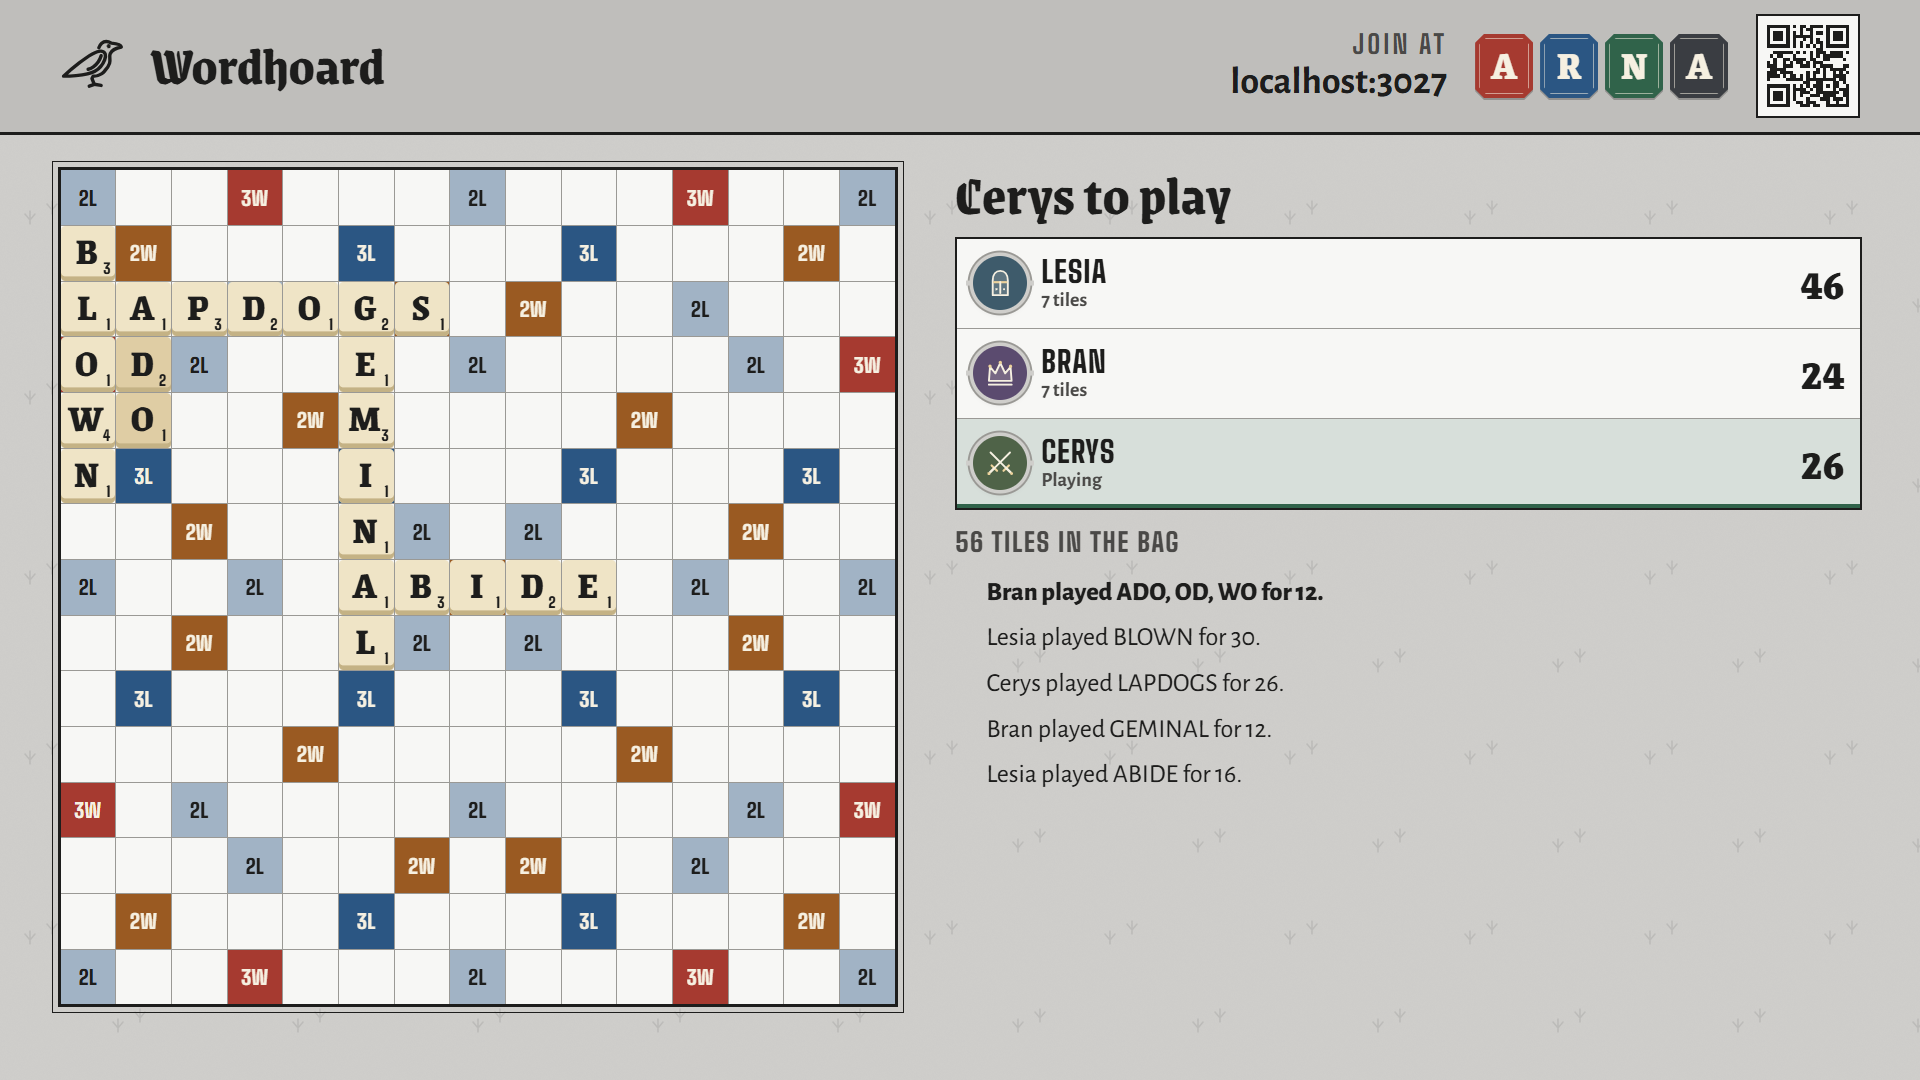
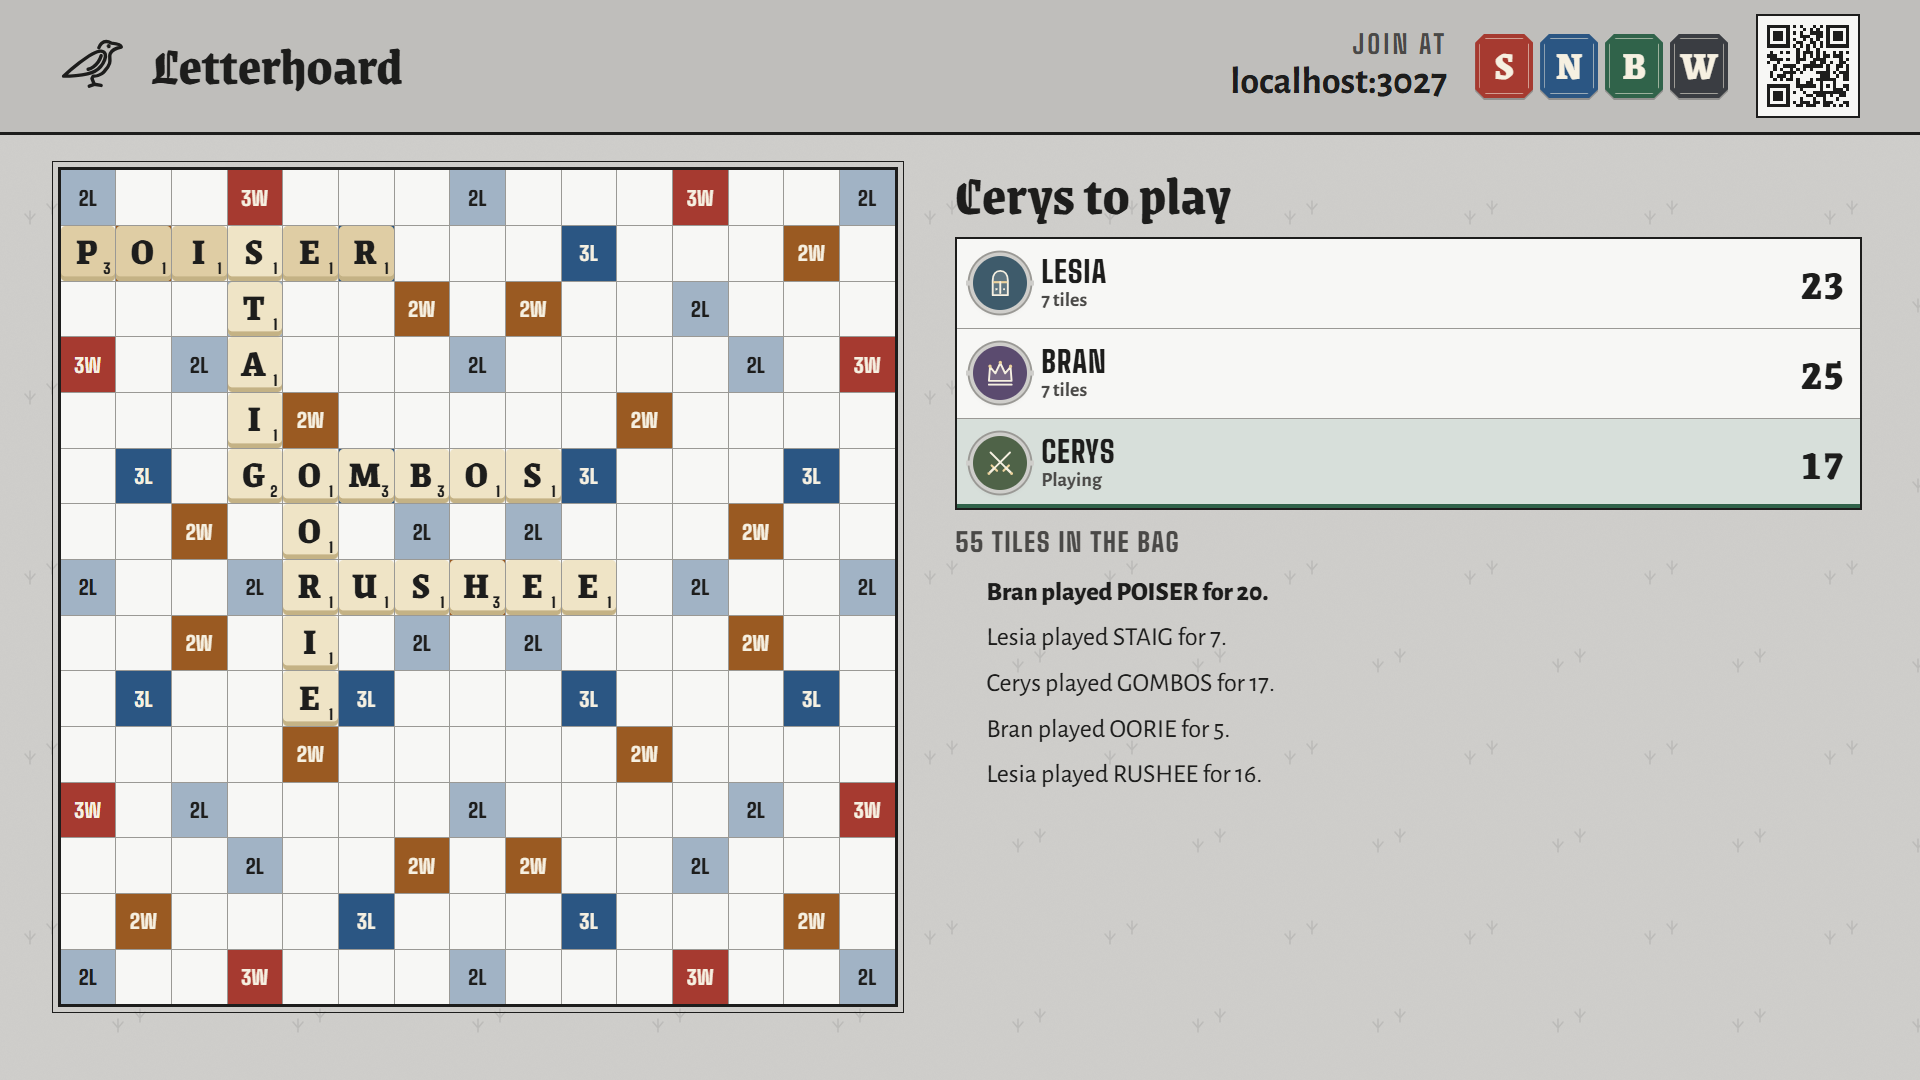
feat: rename Wordhoard to Letterhoard
The owner's pick. Only the name players see changes (meta, pictures, text, docs); the game id,
package and storage keys stay `wordhoard`, so saved lobbies and history keep working. New
catalog pictures with the new name and the screen that fits.

diff --git a/packages/ui/src/game-ui.ts b/packages/ui/src/game-ui.ts
@@ -56,7 +56,7 @@ export interface GameUi {
   /** Optional game-specific end-of-game reveal; the shell shows the recap timeline otherwise. */
   Reveal?: ComponentType<{ result: GameResult; players: ScreenPlayer[]; me: string | null }>;
   /**
-   * Optional: drawn on the TV's results in place of the recap, beside the standings (Wordhoard:
+   * Optional: drawn on the TV's results in place of the recap, beside the standings (Letterhoard:
    * the finished board). It fills a size container, so it can fit itself to the space.
    */
   TvReveal?: ComponentType<{ result: GameResult; players: ScreenPlayer[] }>;
@@ -96,7 +96,7 @@ export interface GameUi {
    */
   fullBleed?: boolean;
   /**
-   * The phone screen fits the height under Jackdaw's bar and never scrolls (Wordhoard: the whole
+   * The phone screen fits the height under Jackdaw's bar and never scrolls (Letterhoard: the whole
    * board, the rack and the buttons at once). The screen's root should fill its parent (`flex: 1`
    * in a flex column); it is a size container named `game` for container queries.
    */

diff --git a/packages/games/wordhoard/src/ui/index.tsx b/packages/games/wordhoard/src/ui/index.tsx
@@ -5,7 +5,7 @@ import { PlayerScreen } from './player';
 import { Reveal, TvReveal } from './reveal';
 import { TvScreen } from './tv';
 
-/** Wordhoard: catalog art, detail page and screens. It uses Jackdaw's own lobby. */
+/** Letterhoard: catalog art, detail page and screens. It uses Jackdaw's own lobby. */
 export const wordhoardUi: GameUi = {
   art: { band: 'azure', field: 'checky', glyph: 'tiles' },
   about: {
@@ -24,11 +24,11 @@ export const wordhoardUi: GameUi = {
     pictures: [
       {
         src: '/games/wordhoard/game-phone.png',
-        alt: 'Wordhoard on a phone: the scores, the board with the words so far, and your rack of seven tiles.',
+        alt: 'Letterhoard on a phone: the scores, the board with the words so far, and your rack of seven tiles.',
       },
       {
         src: '/games/wordhoard/tv.png',
-        alt: 'Wordhoard on a TV: the board large, with the scores and the latest plays beside it.',
+        alt: 'Letterhoard on a TV: the board large, with the scores and the latest plays beside it.',
         wide: true,
       },
     ],

diff --git a/packages/games/wordhoard/src/rules.ts b/packages/games/wordhoard/src/rules.ts
@@ -13,7 +13,7 @@ import { meta } from './meta';
 import { isWord } from './words';
 
 /**
- * Wordhoard, a crossword tile game for 2–4 players, or up to eight in pairs. Each turn you lay tiles from your rack of
+ * Letterhoard, a crossword tile game for 2–4 players, or up to eight in pairs. Each turn you lay tiles from your rack of
  * seven in one line to make words joined to those on the board, and score their letters with the
  * board's bonus squares; using all seven at once earns 50 more. Every word made must be in the
  * word list. Instead of playing you can swap tiles (while the bag has at least seven) or pass.

diff --git a/apps/web/app/r/[code]/lobby-room.tsx b/apps/web/app/r/[code]/lobby-room.tsx
@@ -193,7 +193,7 @@ export function LobbyRoom({ code }: { code: string }) {
   const bleed =
     (status === 'in_game' && Boolean(catalogEntry(snapshot?.session?.gameId)?.ui?.fullBleed)) ||
     (status === 'results' && Boolean(catalogEntry(snapshot?.results?.gameId)?.ui?.Results));
-  // A game that fits the screen (Wordhoard's board, rack and buttons) never scrolls.
+  // A game that fits the screen (Letterhoard's board, rack and buttons) never scrolls.
   const fit = status === 'in_game' && Boolean(catalogEntry(snapshot?.session?.gameId)?.ui?.fit);
   const wide = useMedia(WIDE);
   const wideOwn = useMedia(WIDE_OWN);

diff --git a/apps/web/app/tv/tv.css b/apps/web/app/tv/tv.css
@@ -538,7 +538,7 @@ html:has(.tv-viewport--scroll)::-webkit-scrollbar {
 }
 
 /* ── Results: the big reveal ──────────────────────────────────────────────── */
-/* A game's own reveal beside the standings (Wordhoard's finished board), sized to the space. */
+/* A game's own reveal beside the standings (Letterhoard's finished board), sized to the space. */
 .tv-reveal {
   min-height: 0;
   container-type: size;

diff --git a/packages/games/wordhoard/src/ui/wordhoard.css b/packages/games/wordhoard/src/ui/wordhoard.css
@@ -1,5 +1,5 @@
 /*
- * Wordhoard: a printed board in the compendium. Squares are paper ruled in ink; the bonus
+ * Letterhoard: a printed board in the compendium. Squares are paper ruled in ink; the bonus
  * squares are heraldic fills (gules triple word, tenné double word, azure triple letter, a pale
  * azure double letter); tiles are bone with the letter in Grenze and the value in the corner.
  * The fills and tiles are printed, so they're the same by day and in the dark.

diff --git a/packages/games/wordhoard/src/ui/player.tsx b/packages/games/wordhoard/src/ui/player.tsx
@@ -99,7 +99,7 @@ export function Scores({
 }
 
 /**
- * Wordhoard on a phone: the scores, the board, and your rack at the bottom. Tap a tile on your
+ * Letterhoard on a phone: the scores, the board, and your rack at the bottom. Tap a tile on your
  * rack, then a square, to place it; tap a placed tile to take it back. The score shows before you
  * play. It fits the screen without scrolling: on a laptop the board takes the left and the rack
  * sits beside it.

diff --git a/apps/web/app/api/words/route.ts b/apps/web/app/api/words/route.ts
@@ -1,7 +1,7 @@
 import { isWord } from '@jackdaw/game-wordhoard';
 
 /**
- * Wordhoard's word list, asked a few words at a time, so a phone can say "not in the word list"
+ * Letterhoard's word list, asked a few words at a time, so a phone can say "not in the word list"
  * before Play without downloading the whole list. `GET /api/words?w=HOARD,QZX` returns
  * `{ unknown: ["QZX"] }`. The list never changes between deploys, so answers cache well.
  */

diff --git a/packages/games/wordhoard/src/ui/tv.tsx b/packages/games/wordhoard/src/ui/tv.tsx
@@ -10,7 +10,7 @@ import './wordhoard.css';
 const DROP_GAP = 140;
 
 /**
- * Wordhoard on the TV: the board large, the scores and the last few plays beside it. When a word
+ * Letterhoard on the TV: the board large, the scores and the last few plays beside it. When a word
  * is played its tiles drop onto the board one by one, then the word rises over the board with who
  * played it and the score; a pass or a swap gets a quieter card.
  */

diff --git a/apps/web/e2e/cards-and-words.spec.ts b/apps/web/e2e/cards-and-words.spec.ts
@@ -1,6 +1,6 @@
 import { expect, test, type APIRequestContext, type Browser } from '@playwright/test';
 
-// Poker and Wordhoard on real phones, set up through the lobby API: a hand folded and the next
+// Poker and Letterhoard on real phones, set up through the lobby API: a hand folded and the next
 // one dealt, a tile placed and a turn passed. Public reads (the TV) never carry anyone's hole
 // cards or rack.
 

diff --git a/packages/games/wordhoard/src/board.ts b/packages/games/wordhoard/src/board.ts
@@ -1,5 +1,5 @@
 /**
- * Wordhoard's board, tiles and scoring: pure functions shared by the rules and the screens (the
+ * Letterhoard's board, tiles and scoring: pure functions shared by the rules and the screens (the
  * phone previews a play's score before sending it). No word list here; that's server-side only.
  */
 

diff --git a/apps/web/app/r/lobby.css b/apps/web/app/r/lobby.css
@@ -521,7 +521,7 @@
   flex: 1;
 }
 /* A game that fits the screen: the page is exactly the viewport and the game fills what the bar
-   leaves, so nothing scrolls (Wordhoard). */
+   leaves, so nothing scrolls (Letterhoard). */
 .lobby-page--fit {
   height: 100dvh;
   min-height: 0;
